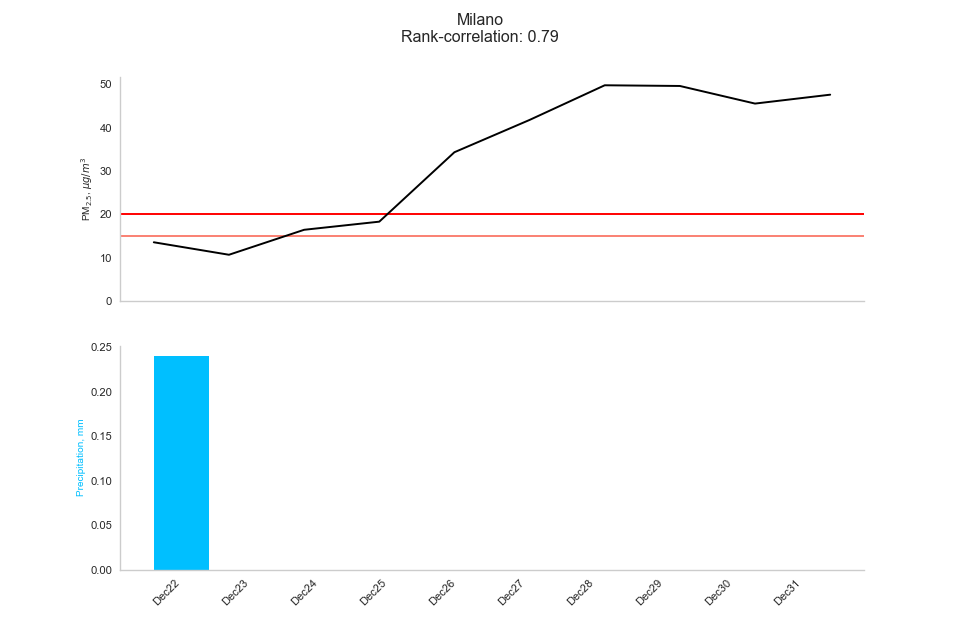
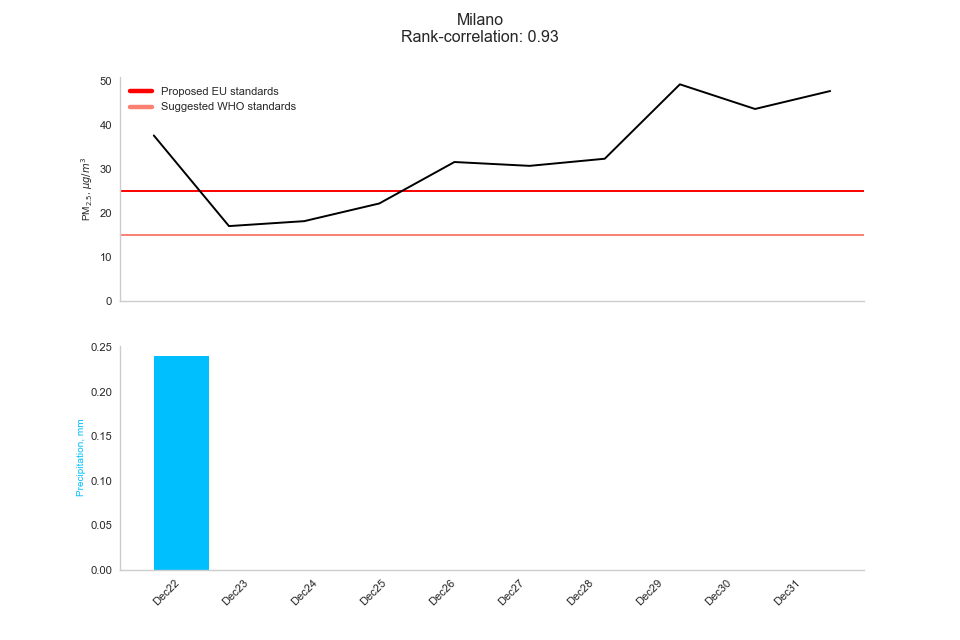
update legend location

diff --git a/spandimentotool/predict.py b/spandimentotool/predict.py
@@ -73,7 +73,7 @@ ax1.spines[['top', 'right']].set_visible(False)
 ax1.grid(False)
 ax1.set_ylabel('PM$_{2.5}$, $\mu g/m^3$', fontsize=9)
 custom_lines = [Line2D([0], [0], color='red', lw=4, label='Proposed EU standards'), Line2D([0], [0], color='salmon', lw=4, label='Suggested WHO standards')]
-ax1.legend(handles=custom_lines, loc='center', frameon=False)
+ax1.legend(handles=custom_lines, frameon=False)
 ax2.bar(g.date, g.tp_l0, color='deepskyblue', zorder=0)
 ax2.set_ylabel('Precipitation, mm', color='deepskyblue', fontsize=9)
 ax2.spines[['top', 'right']].set_visible(False)
